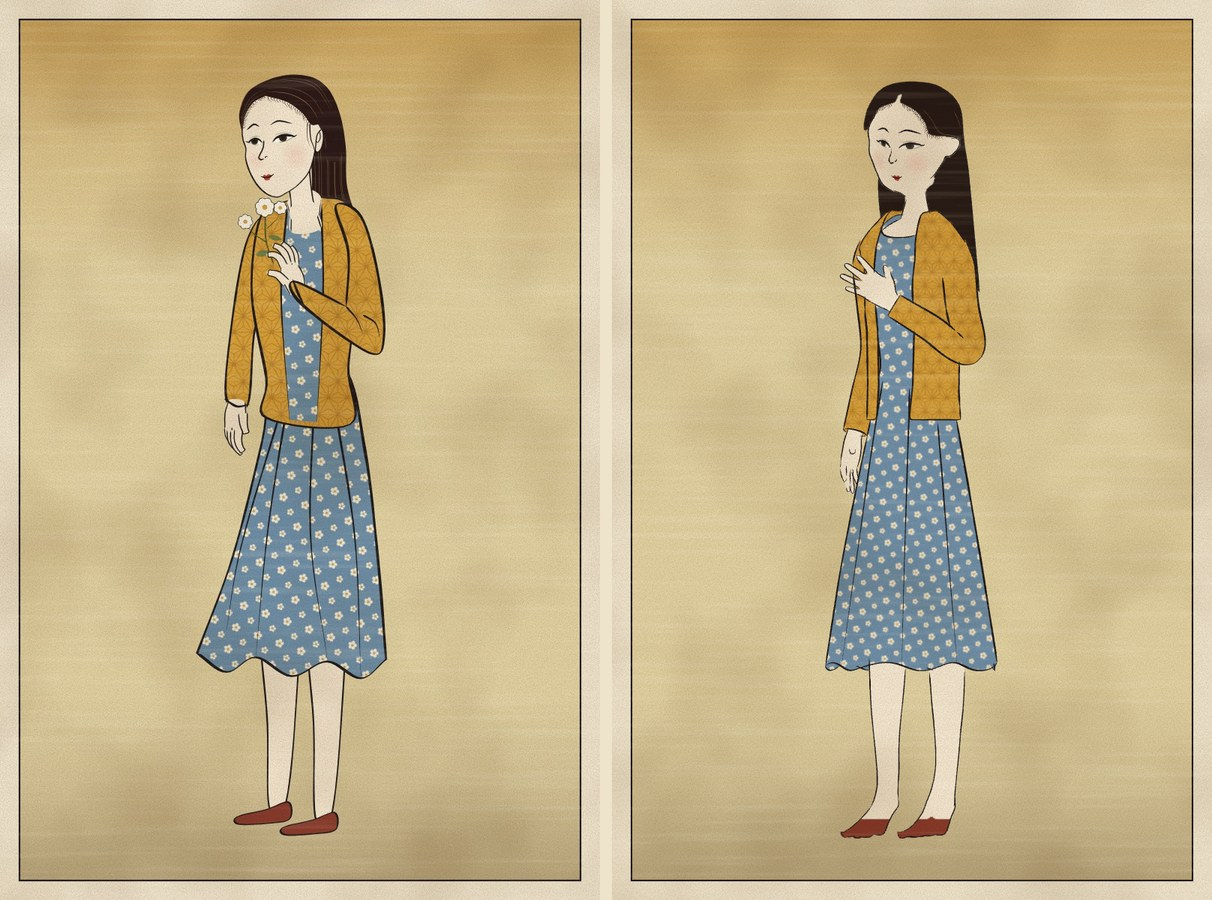
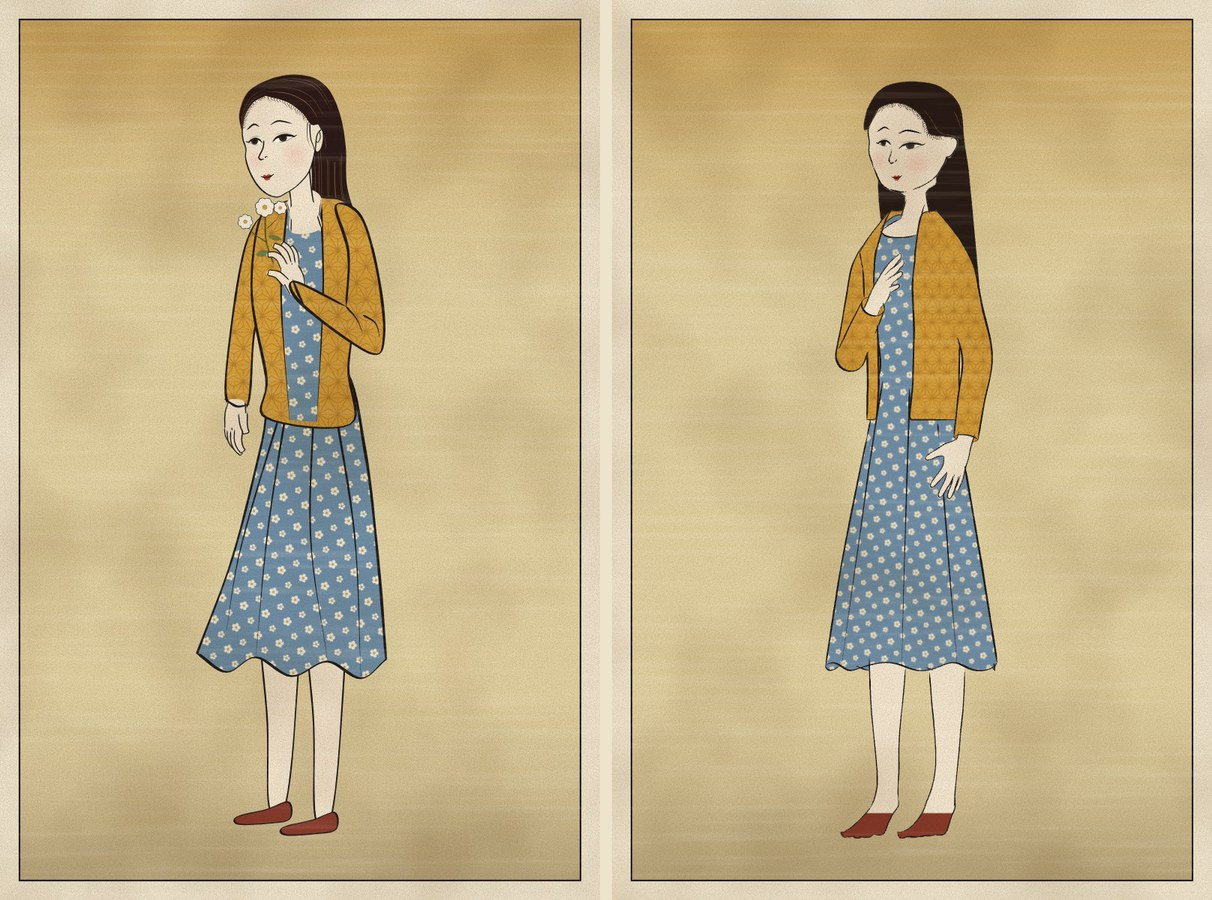
Work in progress: drawings to 3D, round three
Claude-Session: https://claude.ai/code/session_01FZ1T3qLkjYrKJ3e9T7Sm5p

diff --git a/to3d/r25-s7-vera/tools/build.py b/to3d/r25-s7-vera/tools/build.py
@@ -354,9 +354,9 @@ if hasattr(who, 'HOOD_EASE'):
     # headphones over the chest; here they must lie outside it)
     R_ = []
     for y in _ys:
-        u = float(smooth((y - y_sh - 0.5) / (y_neck - y_sh - 0.5)))
+        u = float(smooth((y - y_sh + 3.0) / (y_neck - y_sh + 3.0)))
         a_, zf_, zb_, _, z0 = torso.at(y)
-        R_.append((y,) + tuple(np.array(top_lo.at(y)[:3]) * (1 - u) + np.array([a_ + 0.8, zf_ + z0 + 0.8, zb_ + z0 - 0.8]) * u))
+        R_.append((y,) + tuple(np.array(top_lo.at(y)[:3]) * (1 - u) + np.array([a_ + 0.2, zf_ + z0 + 0.2, zb_ + z0 - 0.2]) * u))
     top_lo = D.Loft(R_, 2.4)
 TV, TT, _ = S.shell(grid_loft(top_lo, lambda c, v: top_s['hem'] + (y_neck - top_s['hem']) * v, TS), True, 0.0025, axis_ref)
 TOP = piece(TV, TT, top_s['c'], trunk_weights(TV, TT))

diff --git a/to3d/r26-s7-kira/tools/build.py b/to3d/r26-s7-kira/tools/build.py
@@ -354,9 +354,9 @@ if hasattr(who, 'HOOD_EASE'):
     # headphones over the chest; here they must lie outside it)
     R_ = []
     for y in _ys:
-        u = float(smooth((y - y_sh - 0.5) / (y_neck - y_sh - 0.5)))
+        u = float(smooth((y - y_sh + 3.0) / (y_neck - y_sh + 3.0)))
         a_, zf_, zb_, _, z0 = torso.at(y)
-        R_.append((y,) + tuple(np.array(top_lo.at(y)[:3]) * (1 - u) + np.array([a_ + 0.8, zf_ + z0 + 0.8, zb_ + z0 - 0.8]) * u))
+        R_.append((y,) + tuple(np.array(top_lo.at(y)[:3]) * (1 - u) + np.array([a_ + 0.2, zf_ + z0 + 0.2, zb_ + z0 - 0.2]) * u))
     top_lo = D.Loft(R_, 2.4)
 TV, TT, _ = S.shell(grid_loft(top_lo, lambda c, v: top_s['hem'] + (y_neck - top_s['hem']) * v, TS), True, 0.0025, axis_ref)
 TOP = piece(TV, TT, top_s['c'], trunk_weights(TV, TT))
